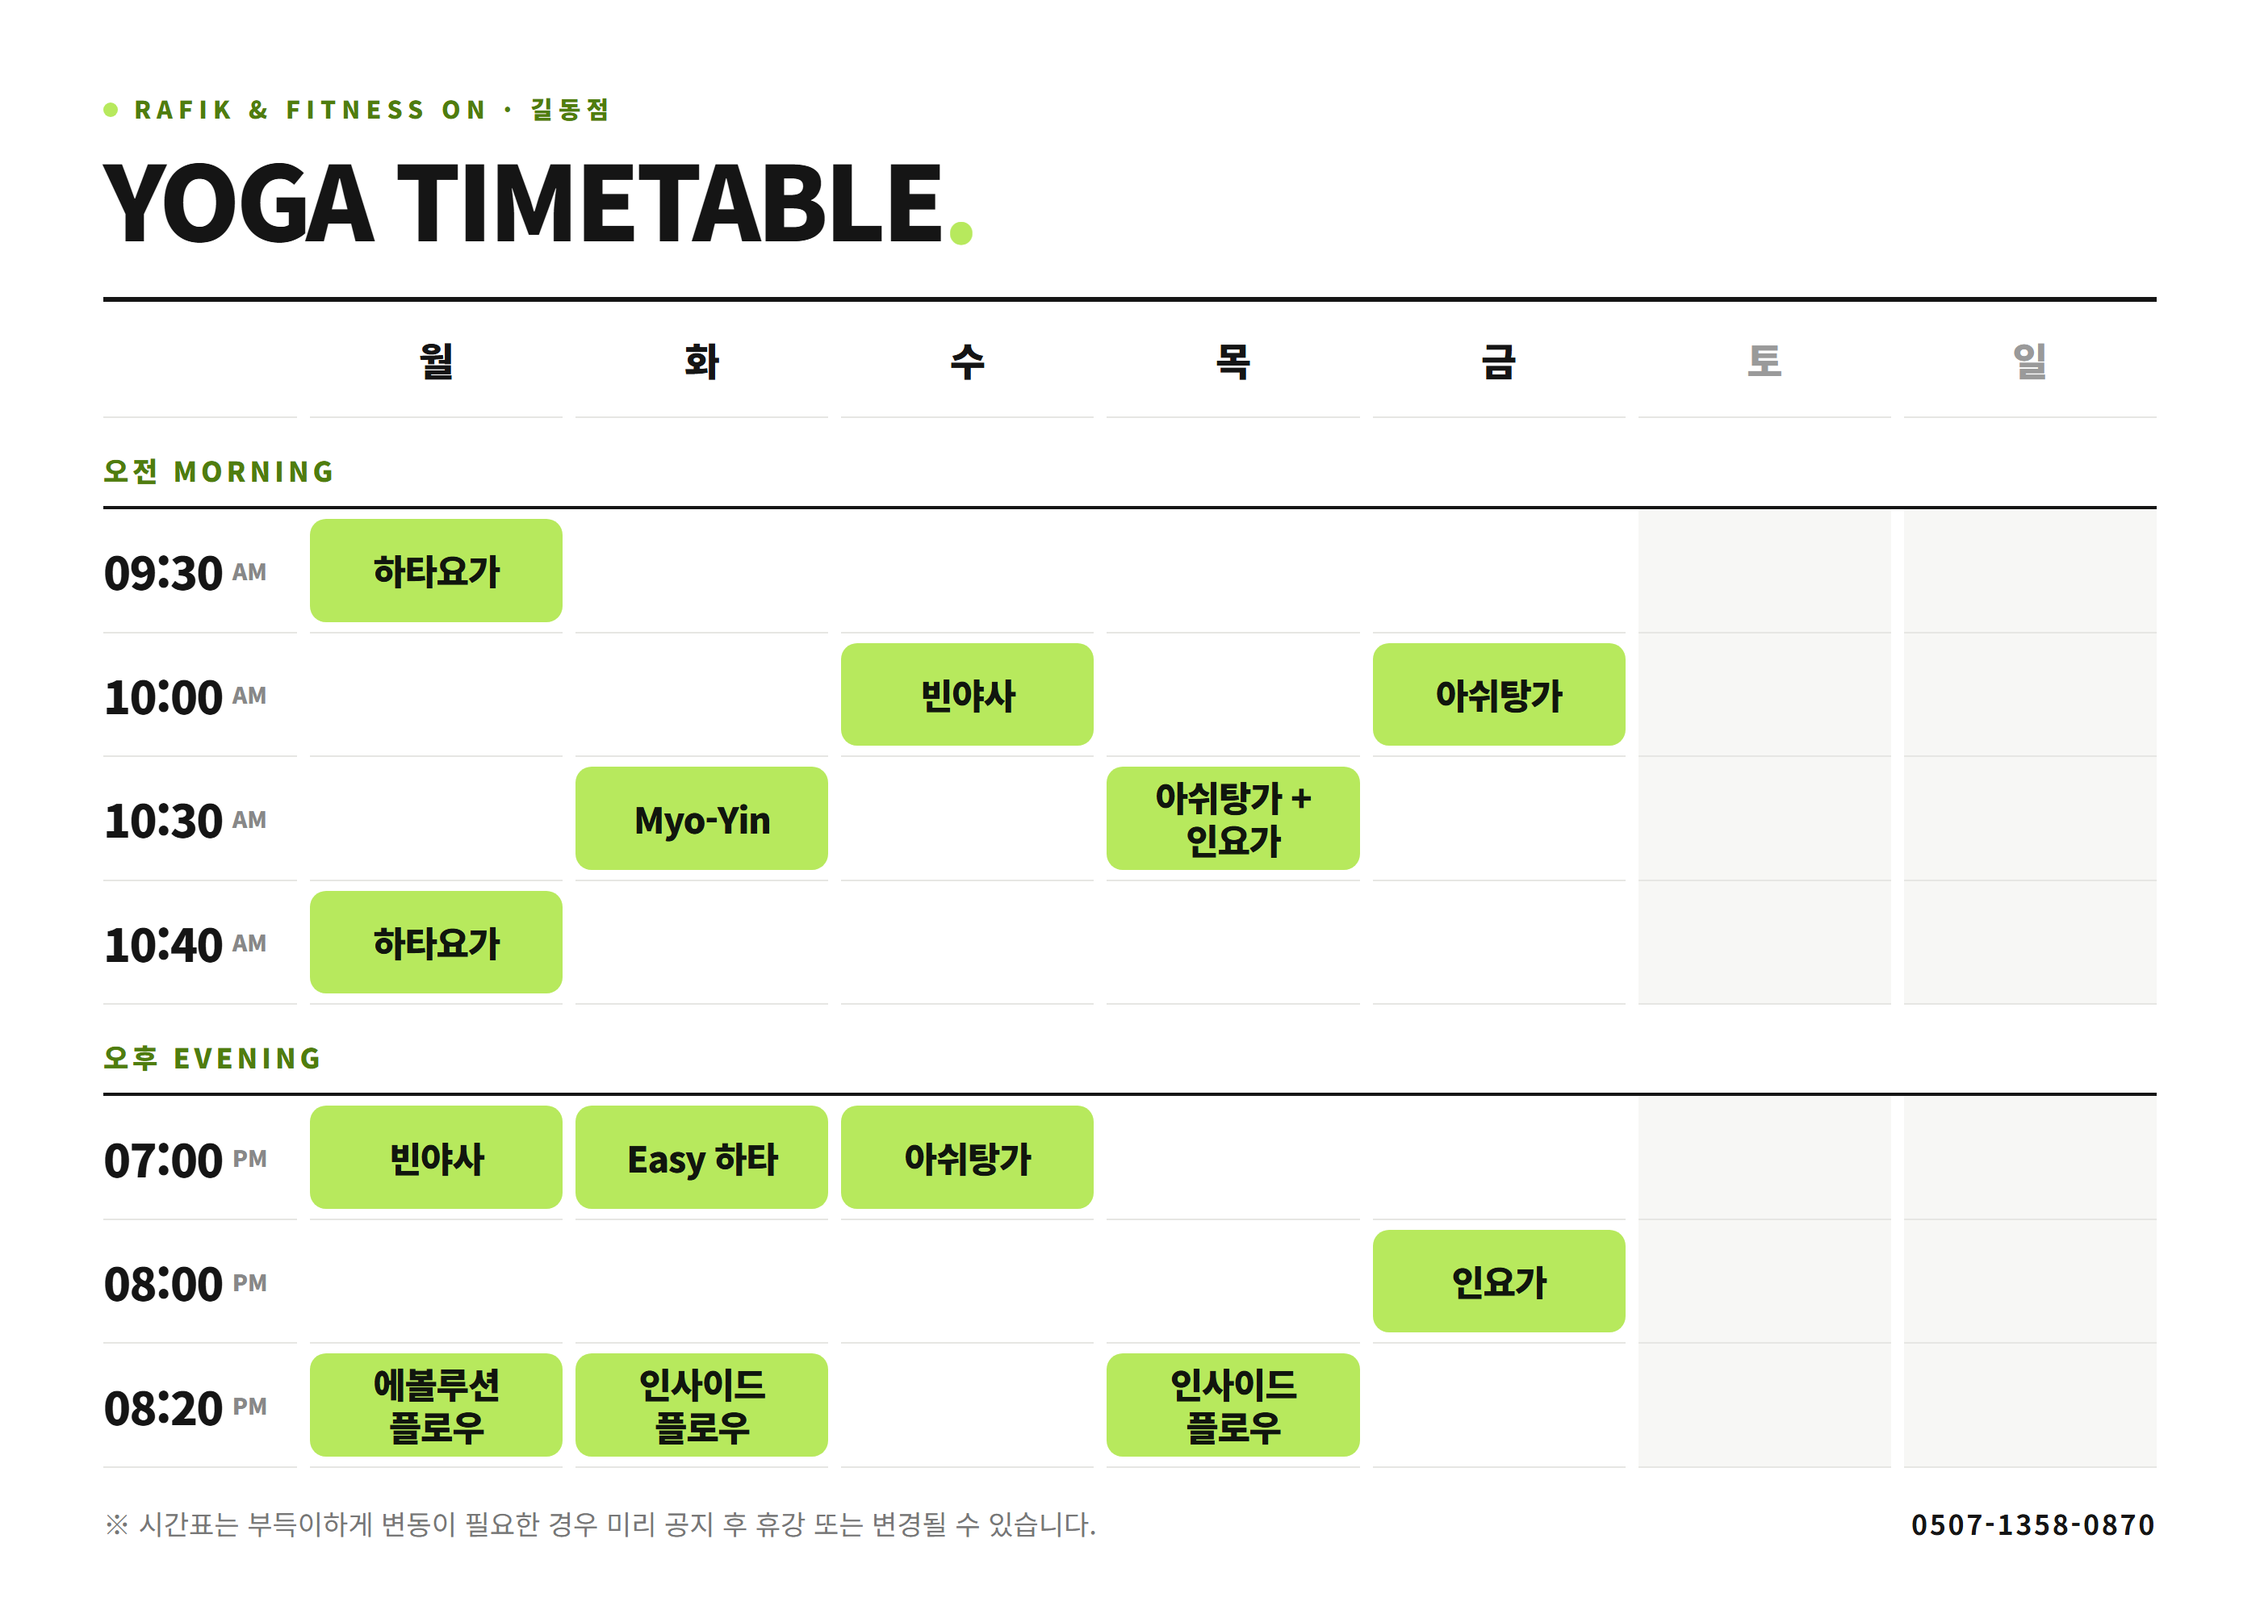
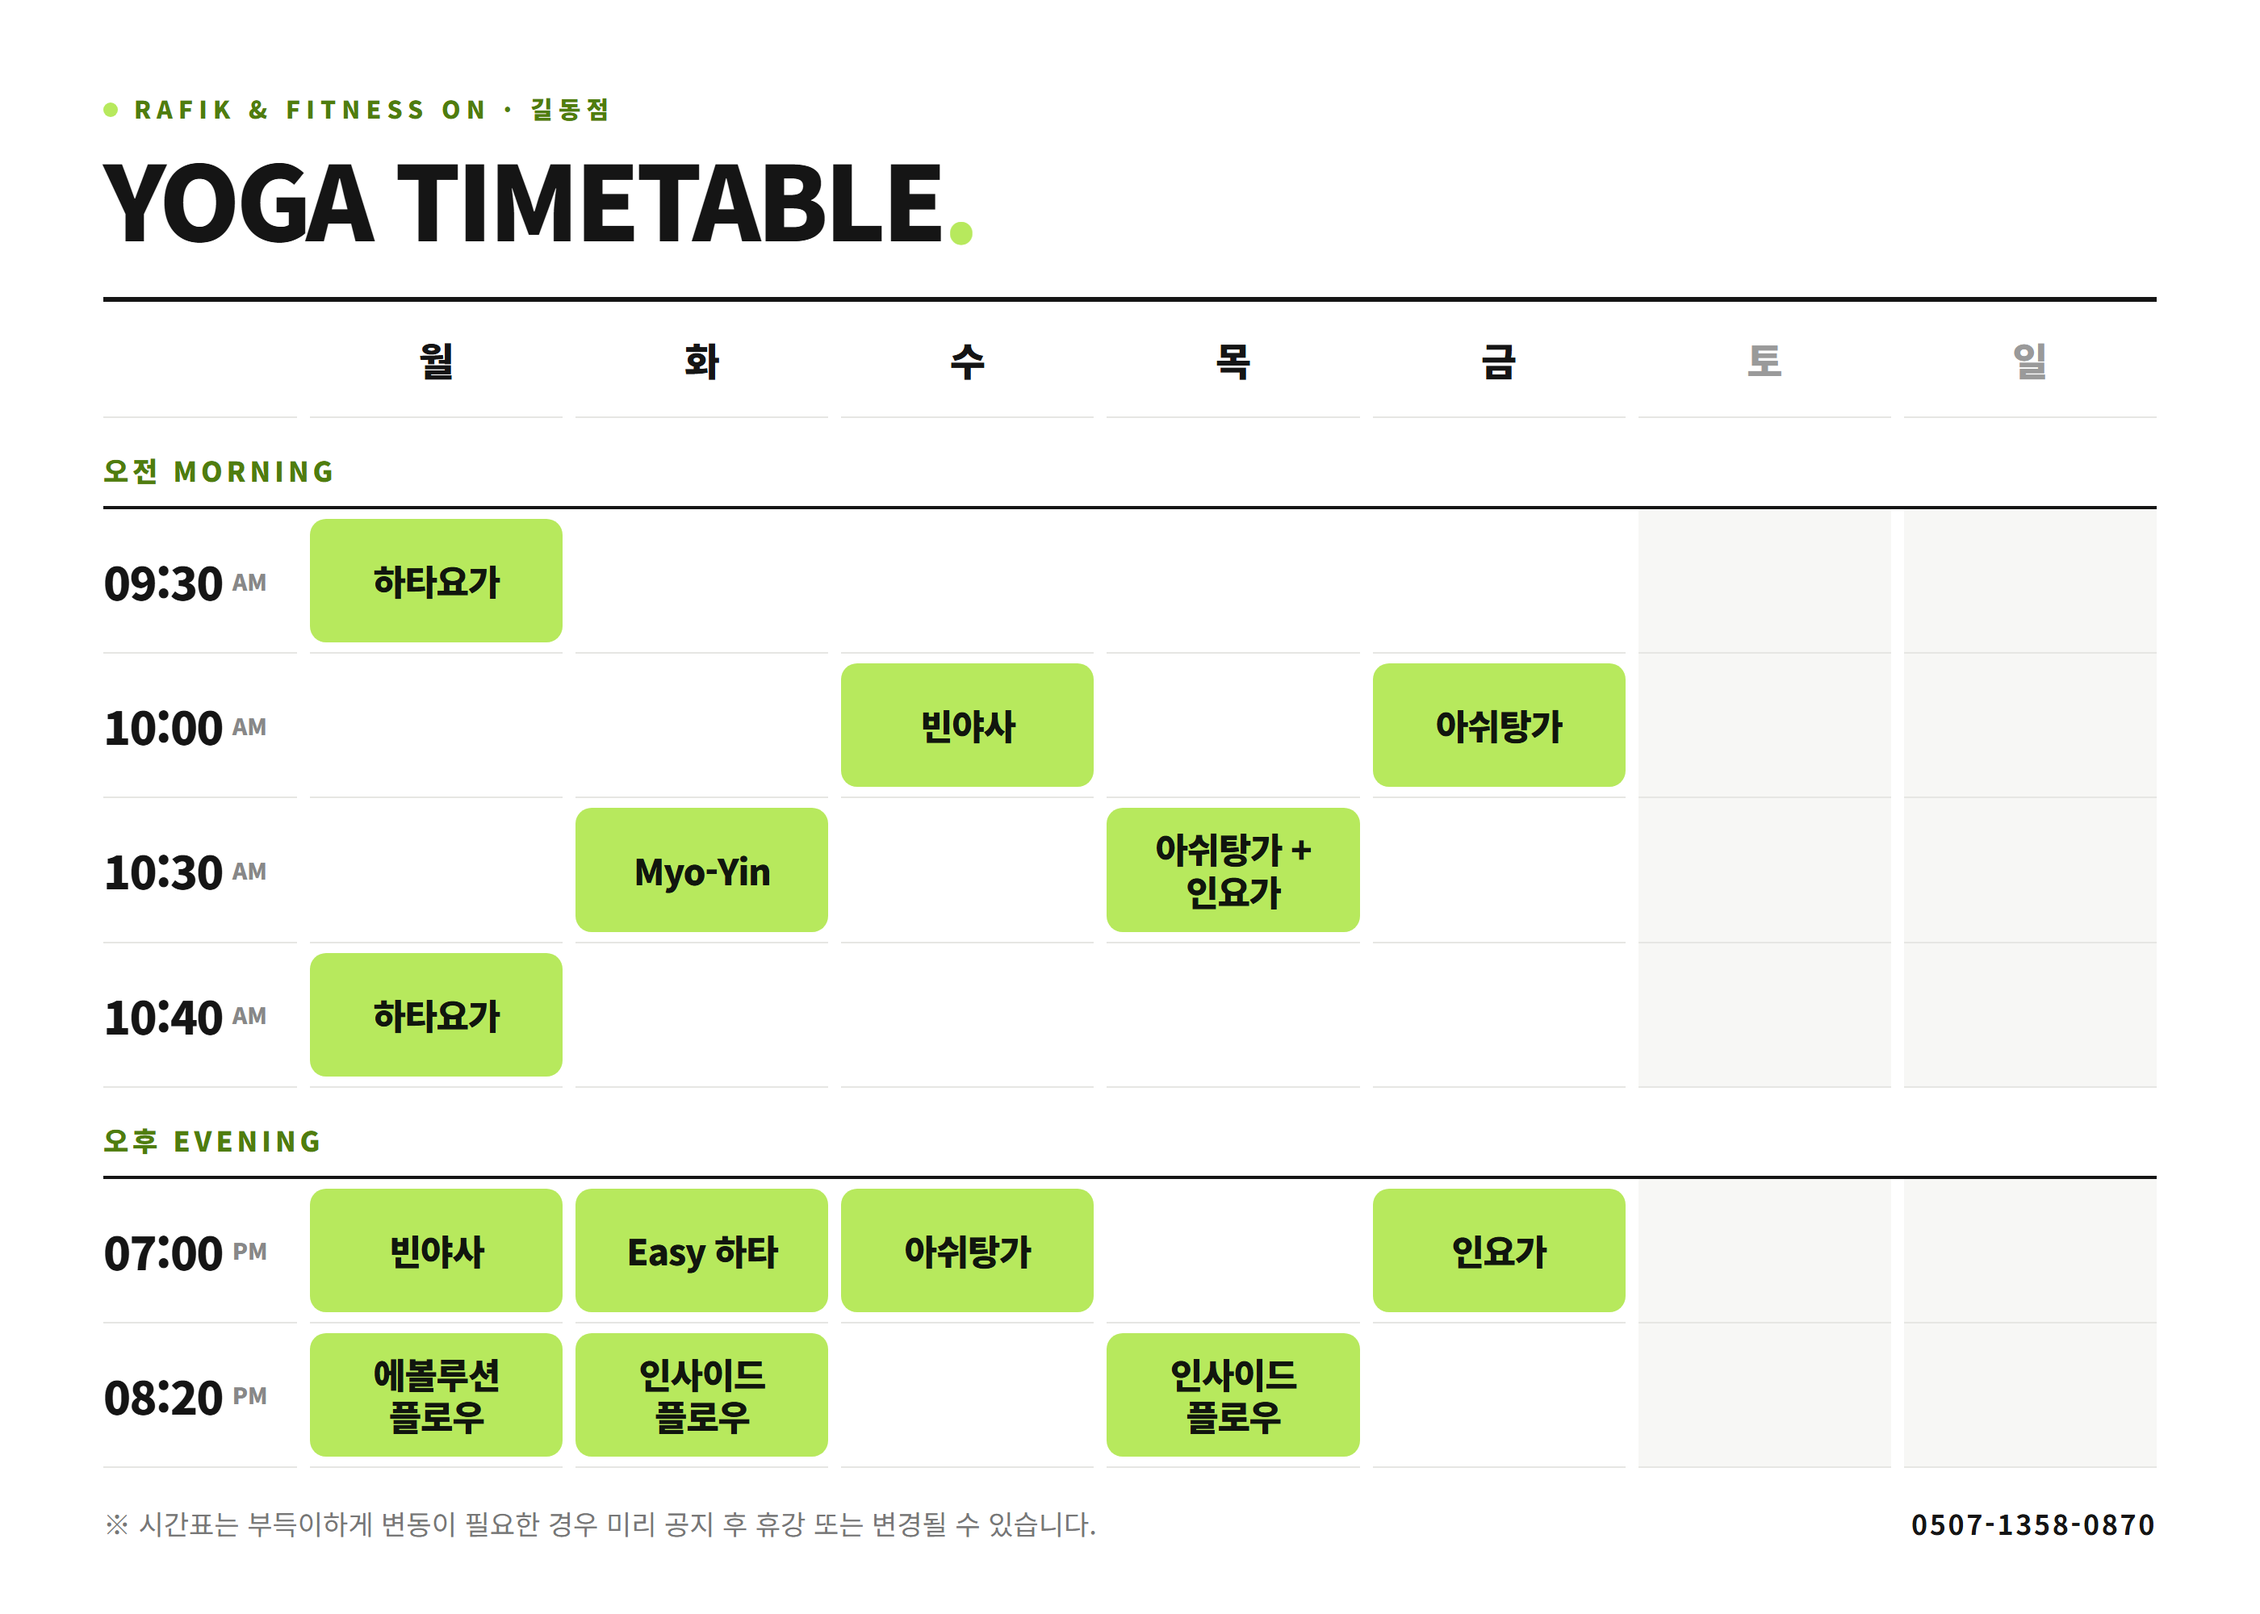
길동점 요가 시간표: 금요일 인요가 19:00으로 변경
- 금 20:00 인요가 → 금 19:00
- 수업이 없어진 20:00 줄 삭제

diff --git a/tools/timetable-maker.html b/tools/timetable-maker.html
@@ -57,8 +57,7 @@ const TIMETABLE={
   ['10:00',['','','빈야사','','아쉬탕가','','']],
   ['10:30',['','Myo-Yin','','아쉬탕가 + 인요가','','','']],
   ['10:40',['하타요가','','','','','','']],
-  ['19:00',['빈야사','Easy 하타','아쉬탕가','','','','']],
-  ['20:00',['','','','','인요가','','']],
+  ['19:00',['빈야사','Easy 하타','아쉬탕가','','인요가','','']],
   ['20:20',['에볼루션 플로우','인사이드 플로우','','인사이드 플로우','','','']]]},
  'gildong-pilates':{title:'PILATES',month:'',types:{'캐포머':'lime','바렐&체어':'dark'},rows:[
   ['09:30',['캐포머','','바렐&체어','','캐포머','','']],
